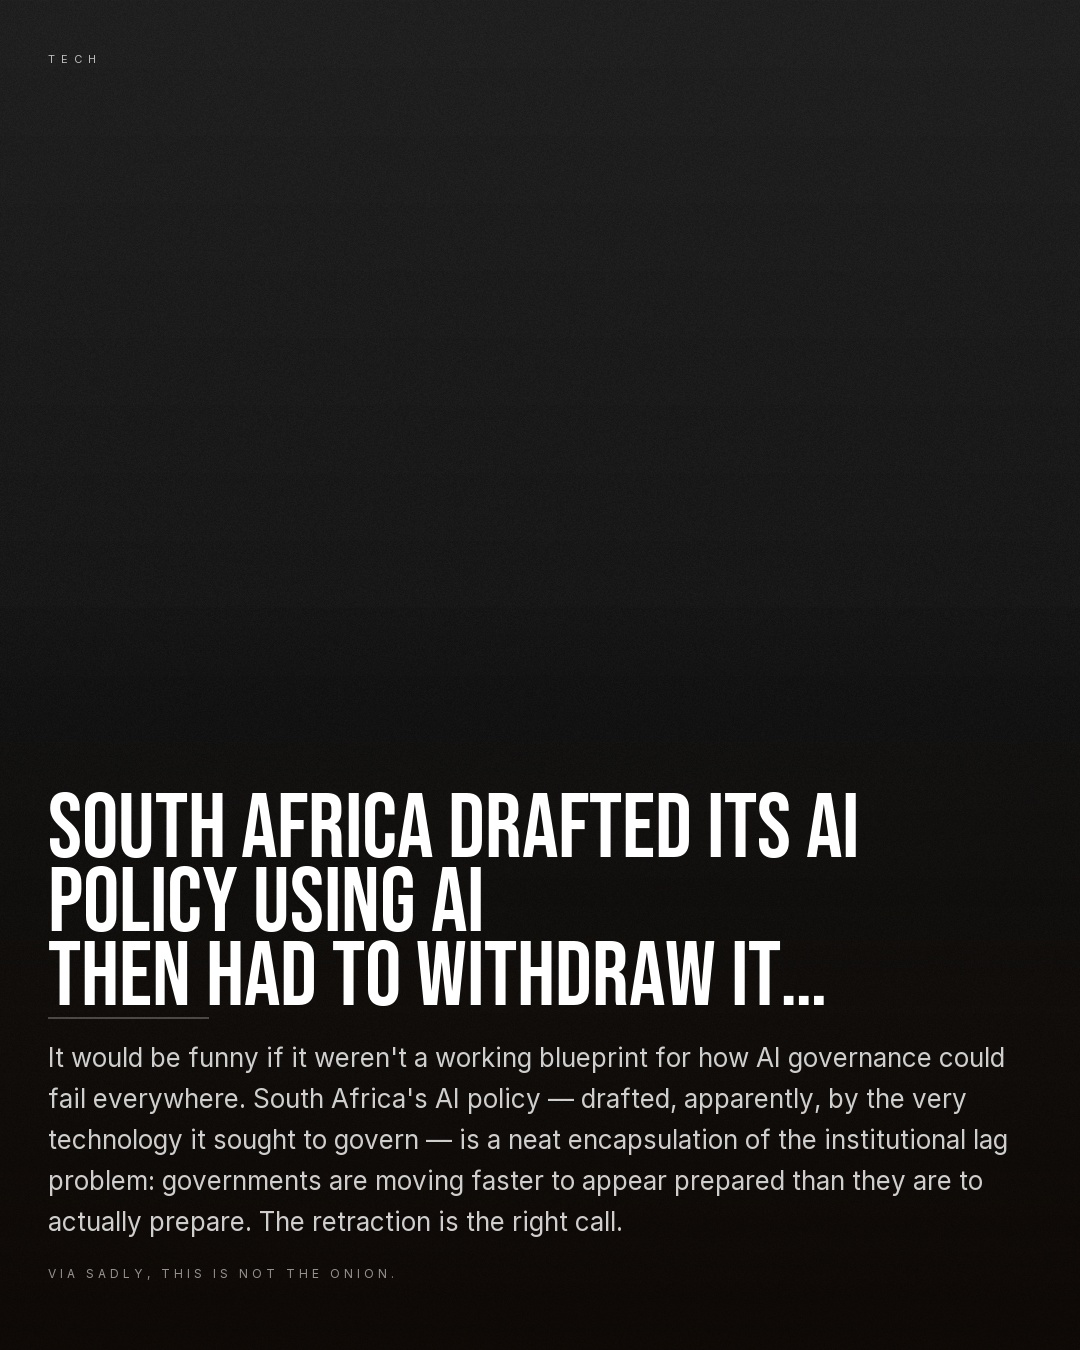
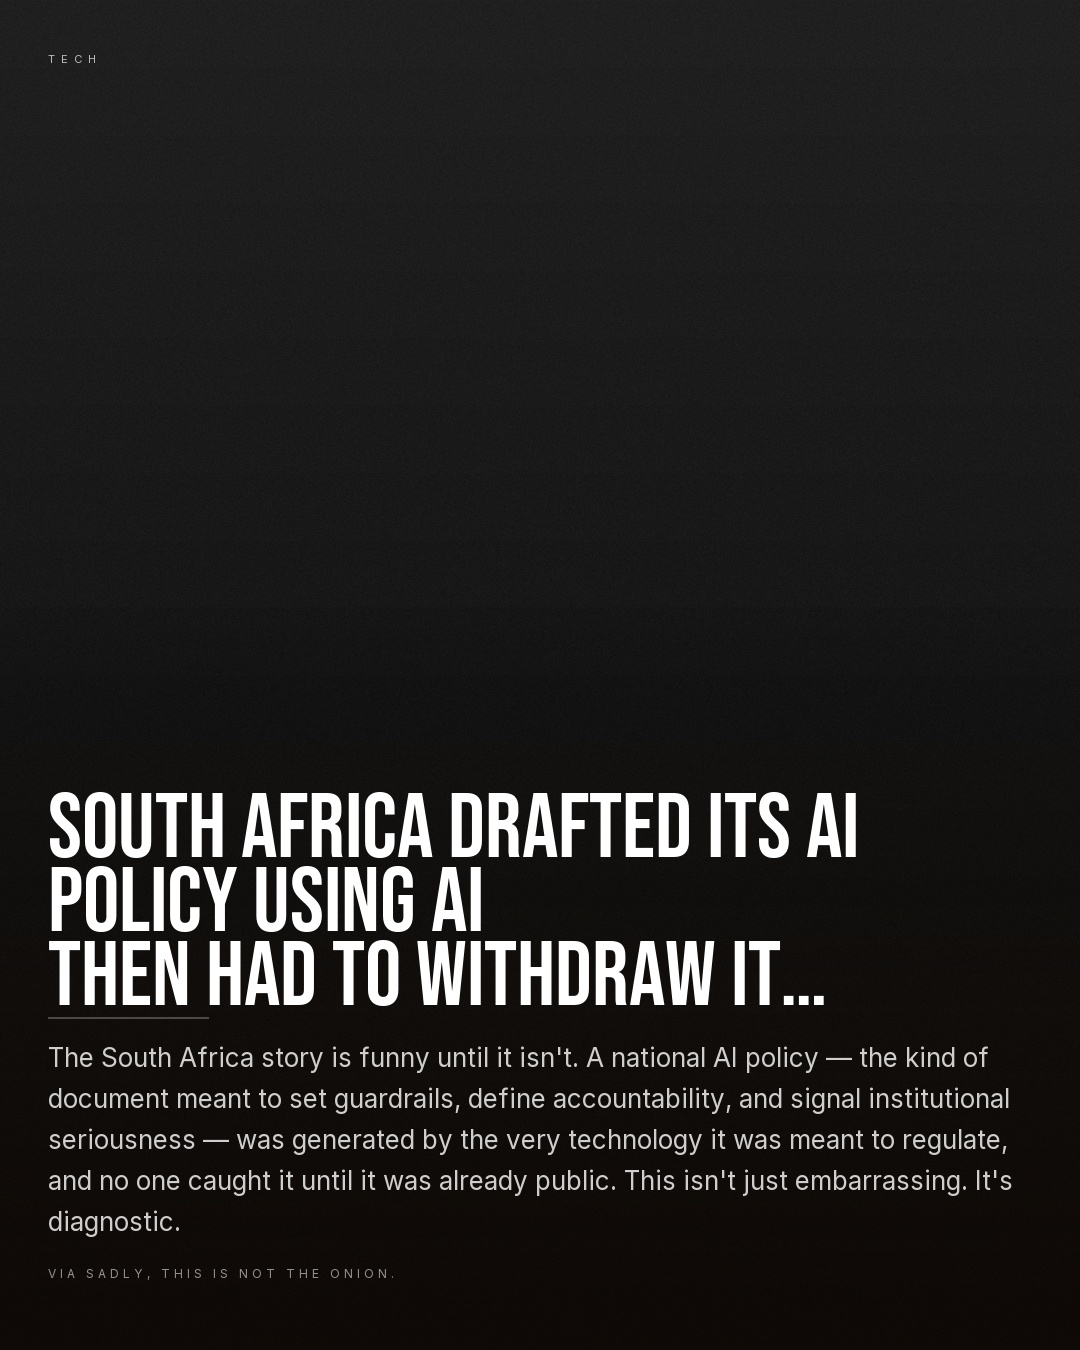
fix: remove body copy line cap — full substack copy always shown, headline shifts up to fit

Changed region(s): [[0.0306, 0.7778, 0.9472, 0.9333]]

diff --git a/digest_publisher.py b/digest_publisher.py
@@ -870,9 +870,10 @@ def render_story_slide(
     source_h  = _text_h(inter12)
     source_y  = H - TEXT_BOTTOM_PAD - source_h
 
-    # Body: use Substack copy (more analytical); fall back to why field
+    # Body: use Substack copy (more analytical); fall back to why field — no line cap,
+    # layout is bottom-anchored so the headline shifts up to accommodate.
     substack_text = copy.get("substack") or pick["why"]
-    why_lines = _wrap_sentences(substack_text, draw_meas, inter16, content_w, 4)
+    why_lines = _wrap_text(draw_meas, substack_text, inter16, content_w)
     why_lh    = math.ceil(_text_h(inter16) * 1.55)
     why_total = len(why_lines) * why_lh
     why_y     = source_y - 20 - why_total

diff --git a/digests/2026-05-01/digest.md b/digests/2026-05-01/digest.md
@@ -6,21 +6,21 @@
 **As Tim Cook steps down, Apple hit record sales — but a chip shortage looms**  
 *TechCrunch*
 
-> The Cook era ends exactly as its defining tension resurfaces.
+> The end of an era, with a crisis already baked in.
 
 ### Platform Copy
 
 **Instagram**
-Tim Cook exits on a record quarter. Best March numbers in Apple's history — and a chip shortage waiting at the door. The man who mastered the supply chain is leaving right as the supply chain breaks again. History has a sense of humor.
+Tim Cook leaves on the highest note possible. Record March quarter. Then the warning: chip shortage ahead. The man built the machine. Now someone else has to keep it running.
 
 **TikTok**
-Tim Cook leaving Apple on a record quarter but a chip crisis incoming. The timing is almost too poetic.
+Tim Cook exits with Apple's best quarter ever AND a chip shortage warning in the same breath. That's not retirement. That's a trap door.
 
 **Threads**
-Tim Cook steps down while Apple posts its best March quarter ever. Record sales, pending chip shortage, new era beginning. That's a complicated goodbye.
+Tim Cook leaving while Apple posts record numbers AND flags a chip shortage is such a Tim Cook move. Pristine on the way out. Someone else deals with the mess.
 
 **Substack**
-Tim Cook's exit lands at a strange and revealing moment — Apple is healthier on paper than it's ever been, yet the warning signs are already forming around chip supply constraints that could define whoever sits in that chair next. Cook built Apple into the world's most efficient machine. The question his successor inherits isn't whether the machine runs, but whether it can still be steered.
+The Cook era ends the only way it could — quietly, efficiently, and with a asterisk. Record March quarter sales signal the machine he built still hums, but the chip shortage warning folded into the same announcement is a deliberate handoff of uncertainty. Whoever steps into that role inherits a company at peak performance and peak fragility simultaneously. That's not coincidence. That's succession planning.
 
 ---
 
@@ -28,21 +28,21 @@ Tim Cook's exit lands at a strange and revealing moment — Apple is healthier o
 **The Atlanta Hawks tonight have scored 36 points this halftime, a 47 point deficit to the New York Knicks**  
 *NBA*
 
-> Largest halftime deficit in NBA playoff history. Full stop.
+> Largest halftime playoff deficit ever. History happened tonight.
 
 ### Platform Copy
 
 **Instagram**
-47 points down at halftime. In a playoff game. The Hawks were playing in a different sport tonight. OG Anunoby with 26 in the first half alone. Some nights the scoreboard is just a message.
+47 points down at halftime. In a playoff game. The Hawks didn't lose tonight — they got erased.
 
 **TikTok**
-47-point halftime deficit. In the playoffs. The Hawks did not come to play basketball tonight apparently.
+Atlanta down 47 at halftime in the playoffs. OG Anunoby dropped 26 in the first half alone. This isn't basketball. This is a statement.
 
 **Threads**
-The Knicks led by 47 at halftime in a playoff elimination game. That's not basketball, that's a statement. OG Anunoby went for 26 in the first half. Historic in the worst and best ways depending on your jersey.
+The Knicks just built a 47-point halftime lead in an elimination game. Largest in NBA playoff history. OG Anunoby with 26 before the break. The Hawks should've stayed on the bus.
 
 **Substack**
-A 47-point halftime deficit in a playoff game is less a score and more a verdict. OG Anunoby's 26-point first half was the kind of performance that gets clipped forever, but the real story is what this says about Atlanta — a franchise in visible freefall, outmatched not just in talent but in will. The Knicks aren't just winning; they're building a signature.
+There are blowouts and then there are moments that reframe what a team is capable of. The Knicks holding a 47-point halftime lead in a playoff elimination game isn't just a win — it's a declaration. OG Anunoby's 26-point first half is the kind of performance that gets replayed for years. The Hawks, meanwhile, now have to spend an entire offseason knowing it ended like this.
 
 ---
 
@@ -50,21 +50,21 @@ A 47-point halftime deficit in a playoff game is less a score and more a verdict
 **The craziest part of Musk v. Altman happened while the jury was out of the room**  
 *The Verge -  All Posts*
 
-> Musk's own legal team may have just handed Altman the case.
+> A self-inflicted wound that could flip the biggest AI trial ever.
 
 ### Platform Copy
 
 **Instagram**
-The most expensive lawsuit in Silicon Valley history got stranger. Musk's own legal team may have just handed the other side a gift — with his fixer saying the quiet part loud while the jury was outside. Courtroom chaos written by people who should know better.
+The Musk vs. Altman trial just had its wildest moment — and the jury wasn't even in the room for it.
 
 **TikTok**
-Musk's legal team accidentally exposed xAI to liability mid-trial. The jury wasn't even in the room. This case keeps getting wilder.
+Musk's own legal team may have just handed OpenAI the win. Mid-trial. While the jury was out. You genuinely cannot write this.
 
 **Threads**
-The Musk v. Altman trial had a moment today that the jury didn't see but everyone will remember. A procedural mistake by Musk's own team. His fixer. A potential liability grenade. This trial is must-watch television.
+The most important AI lawsuit in history and Musk's team fumbled it while the jury was literally out of the room. His own fixer may have just exposed xAI to new liability. Incredible.
 
 **Substack**
-Courtroom blunders are usually footnotes. This one might not be. A procedural error by Musk's legal team — with a key figure potentially exposing xAI to fresh liability in a moment that happened outside the jury's view — is the kind of thing that quietly shifts leverage. In a case already full of ego and ideology, the mundane mechanics of litigation might be what decides it.
+Courtroom chaos is usually theater. This isn't. A procedural blunder by Musk's legal team — with his fixer potentially creating new liability for xAI during a recess — is the kind of unforced error that can quietly determine the outcome of a case that will set the terms for how AI companies are held accountable. The stakes of Musk v. Altman extend well beyond the two men at the center of it. What happens in that room shapes the entire industry.
 
 ---
 
@@ -72,21 +72,21 @@ Courtroom blunders are usually footnotes. This one might not be. A procedural er
 **Anthropic potential $900B+ valuation round could happen within two weeks**  
 *TechCrunch*
 
-> Not profitable. $900B valuation. The AI gold rush has no ceiling.
+> Unprofitable, nearly trillion-dollar. AI valuations have left reality behind.
 
 ### Platform Copy
 
 **Instagram**
-Anthropic. $50 billion round. $900 billion valuation. Not yet profitable. 48-hour allocation window. This is not a normal fundraise. This is a bet on who wins the next decade.
+Not yet profitable. Potentially valued at $900 billion. The Anthropic round isn't a funding event — it's a reckoning.
 
 **TikTok**
-Anthropic raising $50B at a $900B valuation and the allocation window is 48 hours. The AI money printer is fully on.
+Anthropic might close a $900B valuation round in two weeks. 48-hour allocation window. Not profitable. AI money is moving like nothing we've ever seen.
 
 **Threads**
-Anthropic reportedly closing a $50B round at a $900B+ valuation within two weeks. They're not profitable. The 48-hour allocation window means the demand is violent. We are in a moment.
+Anthropic. $50B raise. $900B valuation. Two weeks out. 48-hour allocation window. Not profitable. If this closes, it becomes one of the largest capital events in tech history. Full stop.
 
 **Substack**
-A $900 billion valuation for a company that hasn't turned a profit is either the most rational bet in venture history or a euphoric miscalculation — and the honest answer is that nobody knows yet. What the 48-hour allocation window reveals is the real story: there is so much capital chasing AI infrastructure right now that the gatekeepers have become the gated. Anthropic isn't fundraising. It's rationing access.
+A $900 billion valuation for a company that hasn't turned a profit yet would have been considered satirical five years ago. Today it's a two-week timeline. The 48-hour allocation window Anthropic is reportedly running signals that demand isn't the problem — scarcity is the product. This is what AI investment looks like at the top of the cycle: rational actors making irrational-seeming bets because the cost of being wrong is less terrifying than the cost of being left out.
 
 ---
 
@@ -94,18 +94,18 @@ A $900 billion valuation for a company that hasn't turned a profit is either the
 **South Africa withdraws AI policy after it was found written by AI**  
 *Sadly, this is not The Onion.*
 
-> A government let AI write its AI rules. That's the whole problem.
+> AI wrote the rules for AI. Nobody noticed until it was published.
 
 ### Platform Copy
 
 **Instagram**
-South Africa released an AI policy document. Then pulled it. Because it was written by AI. The government tasked with regulating a technology used that technology to write the rules for regulating it. We're going to need a moment.
+South Africa pulled its official AI policy after someone noticed it was written by AI. The policy. About AI. Written by AI. Governing AI.
 
 **TikTok**
-A government released an AI policy written by AI and had to retract it. The irony is fully undefeated.
+A government released an AI policy written by AI and only caught it after the fact. We are so cooked.
 
 **Threads**
-South Africa withdrew its AI governance policy after discovering it was written by AI. The document regulating AI was generated by the thing it was supposed to regulate. This is the governance crisis in one perfect story.
+South Africa just withdrew its national AI policy because it was written by AI. The policy governing AI. Written by AI. This is not satire. This is a government document.
 
 **Substack**
-It would be funny if it weren't a working blueprint for how AI governance could fail everywhere. South Africa's AI policy — drafted, apparently, by the very technology it sought to govern — is a neat encapsulation of the institutional lag problem: governments are moving faster to appear prepared than they are to actually prepare. The retraction is the right call. The fact it got this far is the actual headline.
+The South Africa story is funny until it isn't. A national AI policy — the kind of document meant to set guardrails, define accountability, and signal institutional seriousness — was generated by the very technology it was meant to regulate, and no one caught it until it was already public. This isn't just embarrassing. It's diagnostic. When governments can't tell the difference between a policy and a prompt output, the gap between AI's capabilities and humanity's institutional readiness becomes impossible to ignore.
